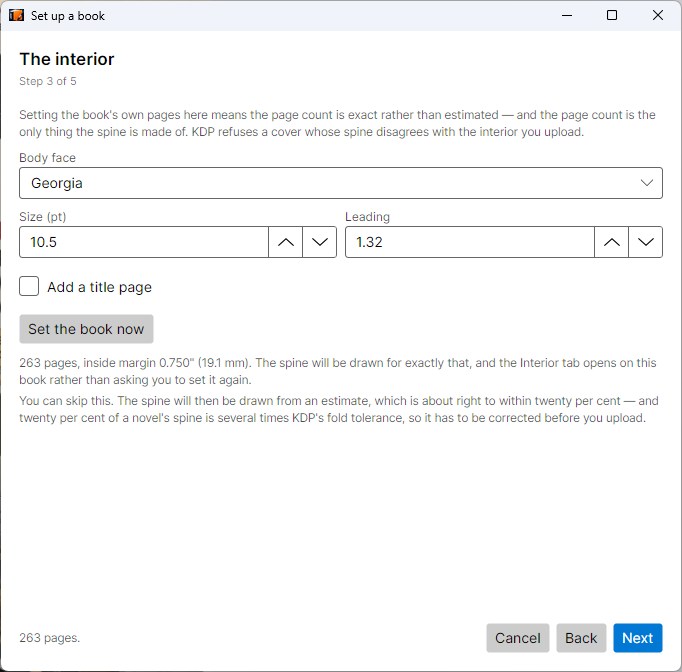
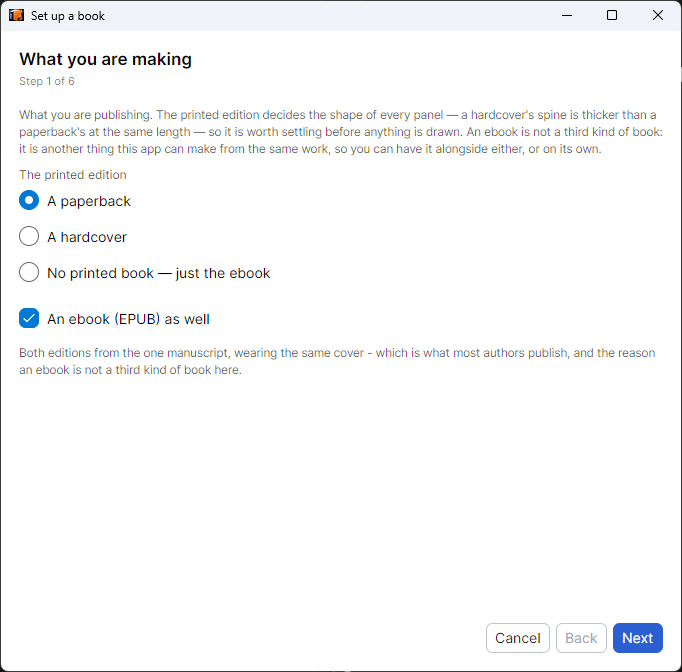
Document 1.4.0: the manuscript stopped being an EPUB
Word, Markdown, plain text, HTML and PDF all read now, several files are one
book in an order that can be dragged into shape, and EPUB became an output
beside the print PDF rather than only an input. That is a new thing the app
does rather than a better way of doing the old one, so the README leads with
it: the opening, the guided setup - six steps now, and it asks what is being
made before anything else - the interior tab, the series, and the export list.

Screenshots: the launch screen carries 1.4.0, the wizard's new first step
replaces the old one, and two are new - the manuscript window with six
Markdown chapters in it, and the interior step laying the book out on arrival.
That second one is the release's own argument: the page count is exact by
construction rather than a word-count estimate carrying twenty per cent.

Counts verified rather than quoted - 2489 tests, 2488 passing and one skipped,
and 390/390 template assertions across 39 templates. HANDOFF.md said 2486; it
was written before the last four features landed.

diff --git a/README.md b/README.md
@@ -1,8 +1,10 @@
 # KDP Cover Studio
 
-A Windows desktop app that formats a book **inside and out** — the print-ready KDP cover, with back, spine and front as a single wrap, and the book's own typeset pages — and exports the two files KDP asks for. A guided setup takes an EPUB to both.
+A Windows desktop app that formats a book **inside and out** — the print-ready KDP cover, with back, spine and front as a single wrap, and the book's own typeset pages — and exports the files KDP asks for. A guided setup takes the manuscript you already have to all of them.
 
-The pages are set the way a book is set: hyphenated on Knuth and Liang's patterns, with a table of contents carrying real page numbers, tables, verse, endnotes, drop caps and a back-of-book index. The spine is drawn for the page count those pages actually came to, which is the one thing a cover cannot be right without.
+**Write in whatever you write in.** Word, Markdown, plain text, HTML, PDF or EPUB — one file, or a folder of chapters in the order you put them in. What comes out is the print-ready cover, the typeset interior PDF, and, since 1.4.0, **the EPUB ebook**: written from the same corrected book as the paperback and wearing the same cover.
+
+The pages are set the way a book is set: hyphenated on Knuth and Liang's patterns, with a table of contents carrying real page numbers, tables, verse, endnotes, drop caps, a back-of-book index, and the italics, bold and underlining the manuscript asks for. The spine is drawn for the page count those pages actually came to, which is the one thing a cover cannot be right without.
 
 **[Download the latest release »](https://github.com/raymondjstone/KDP-Cover-Studio/releases/latest)**
 
@@ -10,31 +12,52 @@ The pages are set the way a book is set: hyphenated on Knuth and Liang's pattern
 
 ---
 
-## From a manuscript to both files, in five steps
+## From a manuscript to finished files, in six steps
 
 ![The guided setup](docs/screenshots/08-guided-setup.png)
 
-**File ▸ Set up a book from an EPUB…** asks five questions and nothing else: the manuscript, the book, the interior, the cover, and what it made.
+**File ▸ New book from a manuscript…** — first on the File menu, above New — asks six questions and nothing else: what you are making, the manuscript, the book, the interior, the cover, and what it made.
+
+It opens by asking **what you are making**, because the answer changes what is worth asking next. A paperback and a hardcover are different shapes and a book cannot be both; an ebook is not a third kind of book but another thing this app makes from the same work, so it sits beside either as a checkbox. Choose the ebook on its own and the interior step is skipped rather than shown and disabled — trim, paper and page count reach an ebook through nothing at all.
 
 It exists because of the failure the interior formatter was written after: **two KDP rejections in one afternoon, both a cover whose spine disagreed with the interior that was uploaded**. The spine is made of the page count and nothing else, and until the pages are actually set, the page count is an estimate. So the wizard sets the book's own pages first, and the cover it then draws is drawn for that exact number.
 
 | Step | What it settles |
 |---|---|
-| **The manuscript** | An EPUB supplies the title, the author, the blurb and the length. You can go on without one and type the title yourself |
-| **The book** | Binding, trim size and paper — the three fields that re-flow every layer, so they are asked before anything is drawn. They start as your defaults |
-| **The interior** | Body face, size, leading, an optional title page. Press *Set the book now* and the page count stops being an estimate |
-| **The cover** | A design, the EPUB's own artwork, and the option to draw the wrap's background colour out of that artwork so the three panels read as one book |
-| **What it made** | A summary. **Nothing has been written to disk** — the cover opens in the editor and saving is yours to do |
+| **What you are making** | A paperback or a hardcover — or no printed book at all — with the ebook as a checkbox beside it. Asked first, because the rest of the questions depend on the answer |
+| **The manuscript** | The files the book is written in, in the order you put them in. They supply the title, the author and the length — and from an EPUB, the blurb and the cover art as well. You can go on without one and type the title yourself |
+| **The book** | Trim size and paper — the fields that re-flow every layer, so they are asked before anything is drawn. They start as your defaults |
+| **The interior** | Body face, size, leading, an optional title page. **The book is laid out on arrival**, from the files already chosen, so the page count is exact by construction |
+| **The cover** | A design, the manuscript's own artwork where it has some, and the option to draw the wrap's background colour out of that artwork so the three panels read as one book |
+| **What it made** | A summary that names the commands for what you asked for. **Nothing has been written to disk** — the cover opens in the editor and saving is yours to do |
+
+![The interior step, laid out on arrival](docs/screenshots/13-interior-step.png)
+
+**The page count on that step is not an estimate.** It used to have a button on it, and pressing it was only obvious to somebody who already knew that the spine is page count times caliper and that KDP refuses a cover whose spine disagrees with the interior beside it — which is exactly what this path exists for people who do *not* know. So they walked past it, took the estimate, and found out at the upload. Arriving at the step now lays the book out from the files already chosen, and the spine is drawn from the count that comes back. A changed setting marks it stale rather than re-composing on every touch of a spinner, and it is set again on the way out of the step.
 
 Every step is skippable and nothing it sets is final: what comes out is an ordinary project, in the ordinary editor, with ordinary layers. And the book it composed is **handed to the Interior tab rather than thrown away**, so the tab opens on the pages you have just seen counted instead of asking for the manuscript a second time.
 
 The same pipeline runs from the command line, because a batch processor with its own generation logic would drift from the app it automates:
 
 ```
-KDPCoverStudio.exe book.epub --interior --size 6x9 --paper cream --out folder
+KDPCoverStudio.exe book.docx --interior --epub --size 6x9 --paper cream --out folder
 ```
 
-An EPUB path is what selects batch mode — a bare path is also how Windows hands over a double-clicked project, and that has to open the editor rather than start a silent export. Preflight still decides what may be written, every problem is reported rather than just the first, and the project file is written first and always, because it is the one output somebody can open and correct.
+A manuscript path is what selects batch mode — a bare path is also how Windows hands over a double-clicked project, and that has to open the editor rather than start a silent export. `--epub` is a flag beside `--interior` rather than a value for `--binding`, for the same reason the wizard treats it as a checkbox: a book is a paperback or a hardcover and cannot be both, and it can perfectly well be a paperback and an ebook. With `--interior` the manuscript is read once and shared, so the two editions cannot disagree about what is in chapter one. Preflight still decides what may be written, every problem is reported rather than just the first, and the project file is written first and always, because it is the one output somebody can open and correct.
+
+### Several files are one book
+
+![Choosing the manuscript](docs/screenshots/12-manuscript.png)
+
+Choosing the manuscript is a window rather than a file picker, and that is not decoration. A picker hands back the file system's order, which sorts `chapter-10` before `chapter-2` — and a book assembled that way is wrong on its first page, in a way the author may never notice. So the files are listed in the order they will be read, rows drag to move, and there are *Move up* and *Move down* buttons as well, because a drag needs a pointer, a steady hand and sight of the row.
+
+A file with no heading of its own is titled from its filename, tidied — a leading number is how the files are ordered and is not part of the title. One file that will not read costs its own chapter and nothing else. **The order is saved with the project**, because it is the one thing about a folder of chapters that nobody can reconstruct.
+
+**Everything goes through one reader.** Word, Markdown, plain text and PDF are turned into HTML and handed to the same reader an EPUB goes through — the one place that knows what a heading, a scene break, a listing, a table, a note and an emphasised phrase are. A reader per format would be a second set of answers to all of it, and they would disagree the first time any of them changed. A `.docx` needs no new dependency: it is a ZIP holding XML, which is what a project file already is.
+
+**A PDF is marks on pages, and the app says so before it reads one** rather than after. There are no paragraphs, no chapters and no emphasis in a PDF — only glyphs at coordinates — so lines, paragraphs, running heads, folios and words broken at line endings are all inferred, and what cannot be recovered at all is named up front. The check on it is a round trip through this app's own exporter: 41 blocks out, 41 blocks back, with the running head and every folio correctly left behind.
+
+**And the question asked about a manuscript is one it can answer.** "What print cannot carry" reads an EPUB's own markup, so against a Word file it would have found nothing and reported that nothing was lost — a confident wrong answer, which is worse than an error, because nobody re-checks a clean report. An EPUB says in the file that a thing is a table or a footnote, so the *book* can be asked; every other format says less, so the answer is about the *format*, and the report says which of the two it asked.
 
 ---
 
@@ -96,7 +119,7 @@ Every dimension on screen carries both units: `0.450" (11.4 mm)`. There is no un
 
 ![The interior, as a two-page spread](docs/screenshots/09-interior.png)
 
-The **Interior** tab lays out the manuscript itself: choose the EPUB, pick the face and the size, set the book, page through it, export the PDF. It used to be a dialog reached from a menu, which was the wrong shape — the interior is half of what gets uploaded, and the page count it produces is the number the cover's spine is made of. As a tab it keeps its state, and the manuscript it uses is the project's own.
+The **Interior** tab lays out the manuscript itself: choose the files, pick the face and the size, set the book, page through it, export the PDF — or the EPUB, which is on the same tab because that is where the book is. It used to be a dialog reached from a menu, which was the wrong shape — the interior is half of what gets uploaded, and the page count it produces is the number the cover's spine is made of. As a tab it keeps its state, and the manuscript it uses is the project's own.
 
 **The button that matters is "Use this page count for the cover".** A count that comes out of the file this app has just written is exact by construction, and it arrives marked as exact, so nothing downstream treats it as a guess.
 
@@ -110,18 +133,19 @@ Most books settle on the first pass — the default layout's own gutter is 0.75"
 
 | | |
 |---|---|
-| **Front matter** | The EPUB's own is dropped and the book gets its own, so a half-title left over from an ebook does not print. An optional **title page designer** carries the title, subtitle, author, series line, imprint and copyright page — seeded from the project, all of it editable, and **drawn while it is being chosen** rather than picked by reading a form. The app writes the year and the convention and never somebody's rights paragraph |
+| **Front matter** | The manuscript's own is dropped and the book gets its own, so a half-title left over from an ebook does not print. An optional **title page designer** carries the title, subtitle, author, series line, imprint and copyright page — seeded from the project, all of it editable, and **drawn while it is being chosen** rather than picked by reading a form. The app writes the year and the convention and never somebody's rights paragraph |
 | **A table of contents** | With the pages the chapters really start on. An EPUB's contents is a list of *links* — there are no pages in an ebook, so there are no numbers in its contents — and a printed one can only be made by something that knows what the finished pages are |
 | **Tables** | Columns decided together, and no column narrower than the widest word it holds. A cell spanning two columns is set in the column it starts in |
 | **Verse** | Kept as its own lines. The measure decides where prose lines fall, but in verse the line is the unit the poem is made of, and re-flowing it destroys the form |
-| **Notes** | An EPUB's footnotes gathered as **endnotes at the back** |
+| **Notes** | The manuscript's footnotes gathered as **endnotes at the back** |
+| **Emphasis** | The italics, bold and underlining the manuscript asks for. In a novel that is not a small thing — italics carry the titles of works, words in another language, a stressed word in dialogue and a character's own thoughts, and across ten corpus novels there are between 41 and 1,112 italic runs apiece, every one of which used to print as roman. Carried as runs that own their own text rather than as offsets into it, so setting the punctuation cannot move them. Only the conventional elements, never a class called `calibre17` |
 | **An index** | A real back-of-book index from the author's own terms, with the pages they land on, **set in two columns**. The app will read the manuscript and suggest candidates — names that keep coming back — but chooses none of them |
 | **Drop caps** | A capital sunk into the first lines of a chapter. The letter is drawn separately and the lines beside it set narrower, so the wrap, the justification and the drawing all agree about how many of those there are |
 | **Full-page plates** | A picture filling three quarters of the type area gets the page, with its caption, no folio and no running head |
 | **Hyphenation** | Knuth and Liang's patterns — what TeX has set books with since 1983 — rather than a rule of thumb, because every rule of thumb is a guess at where a word breaks. The panel names the dictionary in use |
 | **Punctuation** | Straight quotes curled, `...` to an ellipsis, a hyphen doing a dash's job to a dash. Setting rather than editing: a curly quote is the same mark as a straight one. 32 of the 39 corpus EPUBs have something to set |
 | **Back matter** | An **"Also by" list**, imported from a `.txt` or `.md` file — one title per line. It belongs to the author rather than to this book, so it lives in one file and every book picks it up on the way to the printer. Markdown is stripped rather than honoured, because the interior carries no styling and the asterisks would print |
-| **Pictures** | Resolved relative to the document that names them, not to the book — matching on filename alone finds the wrong picture the moment two chapters both have a `fig1.jpg` |
+| **Pictures** | Resolved relative to the document that names them, not to the book — matching on filename alone finds the wrong picture the moment two chapters both have a `fig1.jpg`. A picture sitting beside a Markdown or Word chapter is read where it lies, rather than copied into a working folder that would then have to be kept in step |
 | **Type it cannot draw** | A face without a glyph is reported, and the run is drawn from a face that has it rather than printing `.notdef` |
 | **Two-page spreads** | The only way to see the faults worth seeing — a blank in an awkward place, a chapter opening on the wrong side, a heading stranded at a turn. Page one is a recto, so the first spread has nothing on its left |
 | **Deleting a page** | Subtractive rather than a re-flow, and the renumbering **turns every page after it over**: the gutter moves to the other edge and the running head changes sides. That is what happens in a real book |
@@ -141,7 +165,7 @@ It is laid out as spreads rather than pages, because facing pairs show at a glan
 | **Presets** | Eleven controls, each added because it is a decision somebody wants to make — and together a decision nobody wants to make eleven times. A preset writes them once and is not a mode |
 | **A large-print edition** | From the manuscript you already have. It is the one edition print-on-demand makes possible and a publisher's economics never allowed, and libraries buy large print steadily where they buy little else |
 | **Every trim size at once** | Trim size is the earliest decision and the worst-informed one — it settles how long the book is, how thick, what it costs to print and the lowest price it can carry, and it is picked from a dropdown of numbers that mean nothing on their own |
-| **Correcting the chapter list** | Rename or leave out what the EPUB got wrong, keyed by document rather than by position, and **never written back to the EPUB**. The alternative was to open it in another program, fix it, export it again and re-import |
+| **Correcting the chapter list** | Rename or leave out what the manuscript got wrong, keyed by document rather than by position, and **never written back to your own files**. The alternative was to open it in another program, fix it, export it again and re-import |
 | **Findings that name a page** | "12 code lines are wider than the column and wrap" is true and unactionable against a four-hundred-page book. The page number is most of the value and clicking the row, which turns to it, is the rest |
 
 **And it can check an interior PDF, including one made elsewhere.** Page count against the cover's — judged by the fold error, which is what KDP actually refuses over — page size against trim and trim-plus-bleed, one page size throughout, the page limit for the binding and paper, and an odd page count, which KDP silences by adding a blank *after* whatever the author thought was the last page. The gutter minimum is stated rather than measured: finding the text block on a page carrying a running head, a folio and a drop cap is guesswork, and being wrong reports a good book as broken.
@@ -158,10 +182,10 @@ Where both can be run, this is the stronger of the two checks — an interior PD
 |---|---|
 | The interior this app sets | Exact by construction — it counted the pages it wrote |
 | An interior PDF | Exact, authoritative — read straight from the file |
-| EPUB estimate | A **range**, never a bare number |
+| A manuscript's word count | A **range**, never a bare number |
 | Manual | Whatever you enter |
 
-An EPUB does not contain the typography that determines page count, so an estimate carries ±20%. On a 300-page book that is ±0.135" of spine — more than double the fold tolerance. The app shows a range, keeps words-per-page editable and calibratable, and never lets an estimate look settled. An unconfirmed count is asked about once, at the point it starts to matter.
+A manuscript does not contain the typography that determines page count, so an estimate carries ±20%. On a 300-page book that is ±0.135" of spine — more than double the fold tolerance. The app shows a range, keeps words-per-page editable and calibratable, and never lets an estimate look settled. An unconfirmed count is asked about once, at the point it starts to matter.
 
 **KDP rejects a file over its page limit**, and the limit depends on the binding and the paper. The app says the number out loud rather than letting you discover it at upload. A book over the maximum can be **split into volumes**: the splitter proposes page ranges and can build a series from them, but does not touch your manuscript, because where a book should break is an editorial judgement. Given an EPUB it splits at document boundaries — most EPUBs put one chapter in one document, so the breaks are real ones. Volumes come out deliberately uneven: a reader notices a chapter cut in half and never notices thirty pages of difference.
 
@@ -199,7 +223,9 @@ Applying a template is a re-placement, not a copy: every layer is repositioned r
 
 **Start the next volume from this one.** Most series are written one book at a time, and what people do is Save As and edit — and every field they forget to edit ships. This carries the design and clears what the book *is*: the blurb goes, from the document and its layer, the ISBN goes from every barcode layer, the page count is demoted to manual, and the volume number moves on by one. Every one of those is named in the notes rather than done quietly. It opens with **no file path**, so a reflexive Ctrl+S cannot overwrite volume one with volume two. And a trailing number is only advanced where a word marks it as a volume number — *1984* and *Catch 22* are titles, and an app that shipped *Catch 23* would have earned every word said about it.
 
-**A series builds its interiors beside its covers.** Give each volume a manuscript and the interior is set **first**, so each spine is drawn from the count that came out of the file just written rather than from a number somebody typed five times. A volume with no manuscript loses its interior and nothing else; four good volumes still go.
+**A series builds its interiors beside its covers** — and its ebooks. Give each volume a manuscript, in any of the formats above, and the interior is set **first**, so each spine is drawn from the count that came out of the file just written rather than from a number somebody typed five times. Each volume's EPUB carries the cover that run drew for it, so a volume's two editions cannot show different artwork. A series is where doing this by hand is worst: five manuscripts, five covers and five ebooks, each of which has to be the same book as the paperback beside it.
+
+A volume with no manuscript loses its interior and nothing else; four good volumes still go. The ebook is written **before** preflight, deliberately — a volume whose cover needs another look is exactly the one whose ebook is still worth having.
 
 ### Type
 
@@ -315,9 +341,17 @@ Transparency is flattened **without losing the type**. Rasterising the whole cov
 
 **Interior PDF** — the book's own pages, written from the Interior tab, at the trim the cover is drawn for. The preview goes through the same drawing code as the writer, because a formatter whose preview lies is worse than none.
 
+**EPUB ebook** — the same book as the paperback, written for a screen. Not a corrected copy of your source, which is a different thing: a *new* epub is written out of the structured book this app has already read, corrected the chapters of and set the punctuation in, so whatever came in — Word, Markdown, a PDF, an EPUB — comes out as a clean ebook with one document per chapter. Nothing is written back to your own files.
+
+The words come through: emphasis, headings, quotations, listings, verse, tables, endnotes, the series and the blurb. **The page decisions do not.** Drop caps, running heads, folios, the gutter, hyphenation, justification and the recto rule are all decisions about a *page*, and an ebook has none — the reader's device makes them, at a size and a face the reader chose. That is why the stylesheet sets almost nothing beyond what carries meaning: a scene break centred, a listing monospaced, verse keeping its line endings, a quotation inset.
+
+Pictures are carried in and **fitted for the screen they will be read on**. A plate goes into a print interior at 300 DPI at the width it is drawn — 1,500 pixels and up — where the largest ebook reader is about 1,600 pixels down its long edge, so the rest is file size no reader can see, on a format every shop judges by its size. One real book here came down from 2.2 MB to 995 KB. Transparency decides the format and is read off the **pixels** rather than the file extension, because a cut-out diagram re-encoded as JPEG gains a black rectangle behind it — and the fitted bytes decide the file's name and its media type, so nothing is ever stored under a declared kind it is not.
+
+The cover inside it is rendered from the cover the paperback is printed from, so a book's two editions cannot show different artwork. That is the whole reason the ebook belongs in the run that drew the cover rather than in a converter.
+
 **Ebook cover JPEG** — a standalone front cover at the aspect ratio the store wants, with each option explained in terms of what it costs on this book.
 
-**Everything, in one press** — every output the cover produces, into one folder. A layer error refuses only the outputs that show that layer, rather than the whole batch.
+**Everything, in one press** — every output the book produces, into one folder, **the EPUB included**, so the name means what it says. A command called "everything" with an exception in it is one whose name stops meaning anything. A layer error refuses only the outputs that show that layer, rather than the whole batch, and the ebook is never refused for a cover problem: an ebook has no spine, no fold and no sheet, so an error about any of those says nothing about it. A cover-only project leaves it out of the bundle entirely rather than reporting it refused.
 
 **A 3D mockup PNG** for a listing or a post, of **both sides of the book** — the back being the one that carries the blurb and the barcode. It is drawn rather than flipped, because a horizontal flip would print the blurb backwards. Both are written from one file dialog, since a second dialog is the step at which one of a pair ends up in a different folder.
 
@@ -360,6 +394,8 @@ Autosaves go to `%LOCALAPPDATA%\KDPCoverStudio\recovery\`, **never to your proje
 
 The copy is a full package including artwork, because autosaving just the document recovers a cover with every image missing — which *looks* like it worked.
 
+**And the pictures a crashed run leaves behind are swept up.** Reading an illustrated manuscript extracts its pictures to a working folder, which is deleted on the way out — and a process that never gets a way out, because it crashed or was killed or the machine restarted with the app open, leaves a complete copy of every picture in the book sitting in the temp directory for ever. The next launch reclaims them. A folder is only taken when it is **both** old and unlocked, never either alone: a live lock file marks work in progress, because pictures are extracted once and then sit unread for hours while somebody works, so an untouched folder is exactly what a busy session looks like. Folders left by earlier versions are swept too.
+
 The app reopens the file you had open, comes back the size and place you left it, and **asks before discarding unsaved changes — on every command that replaces the open cover**: New, Open (and Open recent), the guided setup and "start the next volume". Only the guided setup used to ask, so Ctrl+N on an hour's work lost the hour. Save, Don't save, Cancel, from the same dialog the close path uses. A log is written to `%LOCALAPPDATA%\KDPCoverStudio\logs\`, readable while the app runs.
 
 ### Help that is drawn to your book
@@ -393,14 +429,19 @@ Projects are saved as `.kdpcoverstudio` — a ZIP holding the document plus a co
 
 ## Current release
 
-**Version 1.3.4** — `KDPCoverStudio.msi`, 53.7 MB. See the [release notes](https://github.com/raymondjstone/KDP-Cover-Studio/releases/latest) for what changed.
+**Version 1.4.0** — `KDPCoverStudio.msi`, 53.8 MB. See the [release notes](https://github.com/raymondjstone/KDP-Cover-Studio/releases/latest) for what changed.
 
-Verified at build: **2310 tests** (2309 passing, one skipped) and **390/390 template assertions across 39 templates**.
+Verified at build: **2489 tests** (2488 passing, one skipped) and **390/390 template assertions across 39 templates**.
+
+The headline of this one is that **the manuscript stopped being an EPUB**. Word, Markdown, plain text, HTML and PDF all read now; several files are one book in an order you can drag into shape; and EPUB became an *output* beside the print PDF rather than only an input. Projects from every earlier version load unchanged.
 
 ### Known limitations
 
 - **Footnotes are gathered as endnotes**, not set at the foot of their own page. That is the gutter's fixed point again in a place where it does not converge tidily — reserving room on a page for the notes that fall on it changes which notes fall on it — and it is named rather than quietly approximated.
-- **Indexes need the author's own terms.** The app suggests candidates and sets the result, but an EPUB carries no index markup and a machine that chose the terms itself would produce a concordance.
+- **Indexes need the author's own terms.** The app suggests candidates and sets the result, but a manuscript carries no index markup and a machine that chose the terms itself would produce a concordance.
+- **The index is left out of the EPUB**, rather than written with page numbers that mean nothing. It is the one real casualty of the ebook edition: an index is a list of pages, and an ebook has none.
+- **A PDF manuscript gives up its words and nothing else.** Its paragraphs are inferred from the marks on the page, and its italics, headings and scene breaks cannot be recovered at all. The app says so before it reads one rather than after — but if you have the book in the format you wrote it in, use that.
+- **Pictures in the ebook are fitted, which is a judgement rather than a rule.** Nothing in KDP's specification asks for it; the reasoning is that no shop-visible reader exceeds about 1,600 pixels and every shop judges an ebook by its file size.
 - **A cell spanning two columns is set in the column it starts in.** Tables are otherwise set with their columns.
 - **The exported PDFs are plain PDF, not PDF/X-1a.** KDP says PDF/X "preferred" and accepts plain PDF, which is first on its own list of formats; PDF/X-1a needs every colour in CMYK, greyscale or a named spot, and the renderer writes DeviceRGB with no switch to change it. The app now **measures a PDF against the standard clause by clause** and says which one fails, rather than assuming. Fonts are embedded as subsets, which is the same class of recommendation.
 - **The soft proof is a standard SWOP profile, not Amazon's press.** Amazon publishes no ICC profile for its printers, so the closest honest answer is a standard coated CMYK profile — which is what every string the feature produces names. A better profile dropped into Windows' colour folder is picked up without a code change.
